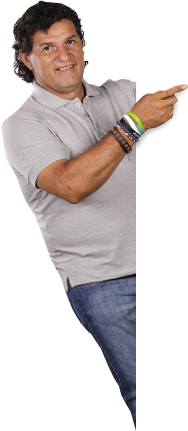
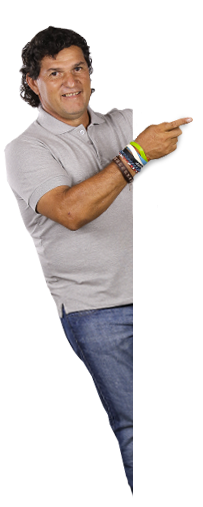
[ONEWEB-737] Add Campaign Celebrities in Ecuador and Costa Rica

Changed region(s): [[0.0, 0.0, 1.0, 0.9954]]

diff --git a/app/config/markets/www.olx.co.cr.js b/app/config/markets/www.olx.co.cr.js
@@ -27,6 +27,10 @@ module.exports = {
             id: 'dSavGD707o4'
         },
         {
+            title: 'OLX Costa Rica - Mauricio "El Chunche" Montero - Garaje',
+            id: '1sR75hvjlRI'
+        },
+        {
             title: 'OLX Costa Rica - Bicicleta - Vender es fácil',
             id: 'iYUX408RQq4'
         },

diff --git a/app/config/markets/www.olx.com.ec.js b/app/config/markets/www.olx.com.ec.js
@@ -1,4 +1,8 @@
 module.exports = {
+    categoryTree: {
+        order: [830, 800, 811, 806, 362, 815, 859, 16, 821],
+        columns: [3, 2, 2]
+    },
     celebrities: {
         home: {
             enabled: true
